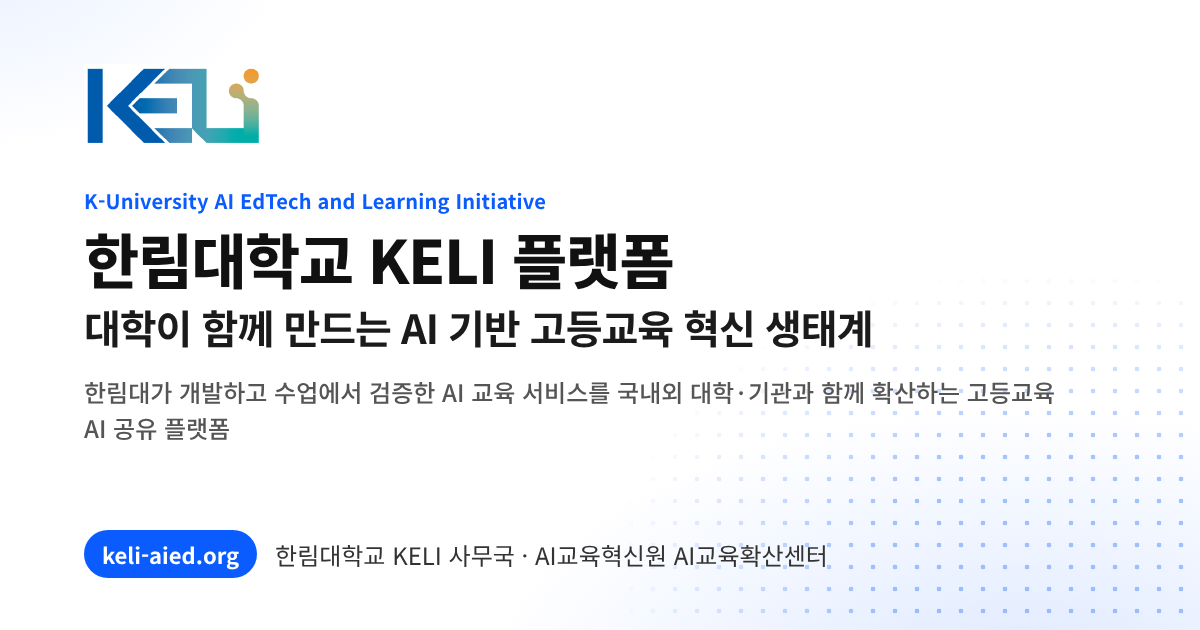
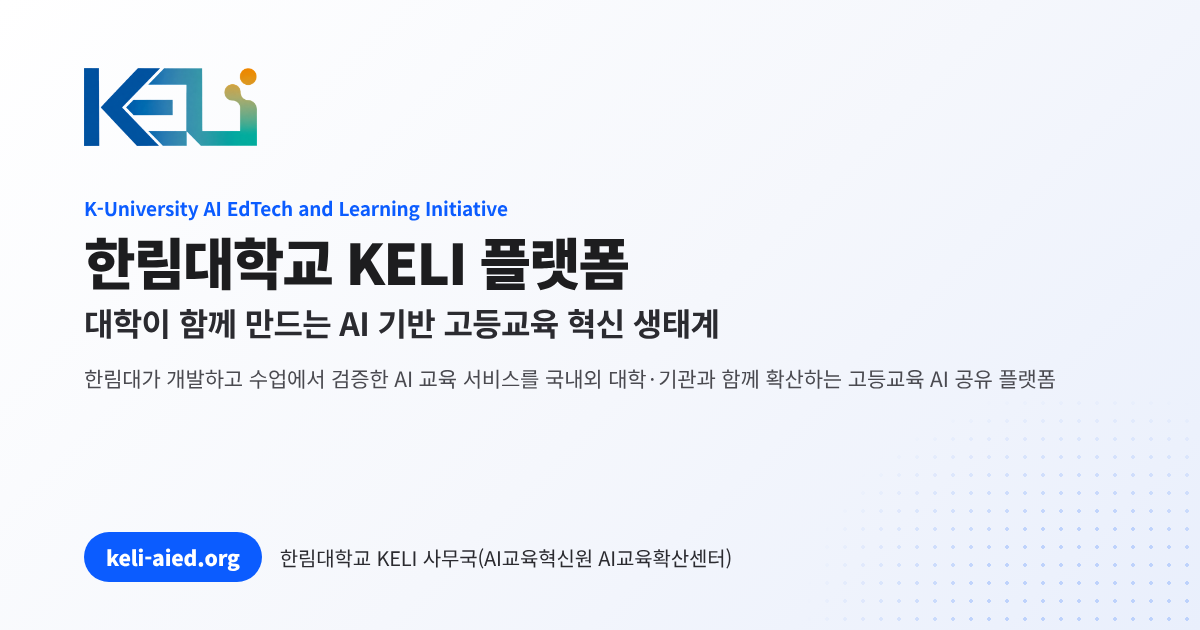
상단 KELI 로고를 새 파일로 교체(투명 배경 정리·600px), 공유 그림(og.png)과 옛 포털 팝업 그림도 새 로고로 다시 만듦 + og 생성 서식·스크립트 보관
Claude-Session: https://claude.ai/code/session_01YVUPKfvtjVhFmVz4oKH2uk

diff --git a/gen/og_template.html b/gen/og_template.html
@@ -1,0 +1,30 @@
+<!DOCTYPE html>
+<html lang="ko"><head><meta charset="utf-8">
+<style>
+  * { box-sizing: border-box; margin: 0; padding: 0; }
+  html, body { width: 1200px; height: 630px; overflow: hidden; }
+  body { font-family: "Noto Sans CJK KR", "Noto Sans KR", sans-serif; color: #1d1d1f; position: relative; letter-spacing: -0.01em;
+    background: linear-gradient(135deg, #ffffff 0%, #f5f7fc 55%, #e9effc 100%); }
+  .dots { position: absolute; right: -40px; bottom: -40px; width: 620px; height: 420px;
+    background-image: radial-gradient(circle, rgba(11,92,255,.20) 1.6px, transparent 1.9px); background-size: 18px 18px;
+    -webkit-mask-image: radial-gradient(ellipse 60% 70% at 75% 85%, #000 30%, transparent 75%); mask-image: radial-gradient(ellipse 60% 70% at 75% 85%, #000 30%, transparent 75%); }
+  .in { position: absolute; left: 84px; top: 68px; right: 84px; }
+  .logo { height: 78px; display: block; }
+  .eyebrow { margin-top: 48px; color: #0B5CFF; font-weight: 700; font-size: 19px; }
+  h1 { margin-top: 8px; font-size: 56px; font-weight: 900; letter-spacing: -0.035em; line-height: 1.15; }
+  h2 { margin-top: 6px; font-size: 32px; font-weight: 700; letter-spacing: -0.02em; color: #2b2b30; }
+  p { margin-top: 18px; font-size: 21px; line-height: 1.5; color: #4a4a50; max-width: 1000px; word-break: keep-all; }
+  .foot { position: absolute; left: 84px; bottom: 48px; display: flex; align-items: center; gap: 18px; font-size: 20px; color: #2b2b30; }
+  .pill { background: #0B5CFF; color: #fff; font-weight: 800; padding: 10px 22px; border-radius: 999px; font-size: 21px; }
+</style></head>
+<body>
+<div class="dots"></div>
+<div class="in">
+  <img class="logo" src="file:///home/claude/keli-site/assets/img/keli-logo.png" alt="KELI">
+  <div class="eyebrow">K-University AI EdTech and Learning Initiative</div>
+  <h1>한림대학교 KELI 플랫폼</h1>
+  <h2>대학이 함께 만드는 AI 기반 고등교육 혁신 생태계</h2>
+  <p>한림대가 개발하고 수업에서 검증한 AI 교육 서비스를 국내외 대학·기관과 함께 확산하는 고등교육 AI 공유 플랫폼</p>
+</div>
+<div class="foot"><span class="pill">keli-aied.org</span><span>한림대학교 KELI 사무국(AI교육혁신원 AI교육확산센터)</span></div>
+</body></html>

diff --git a/gen/og_render.js b/gen/og_render.js
@@ -1,0 +1,7 @@
+const { chromium } = require('playwright');
+(async () => {
+  const b = await chromium.launch();
+  const p = await b.newPage({ viewport: { width: 1200, height: 630 } });
+  await p.goto('file://' + __dirname + '/og_template.html'); await p.waitForTimeout(500);
+  await p.screenshot({ path: __dirname + '/../assets/img/og.png' }); await b.close();
+})();
